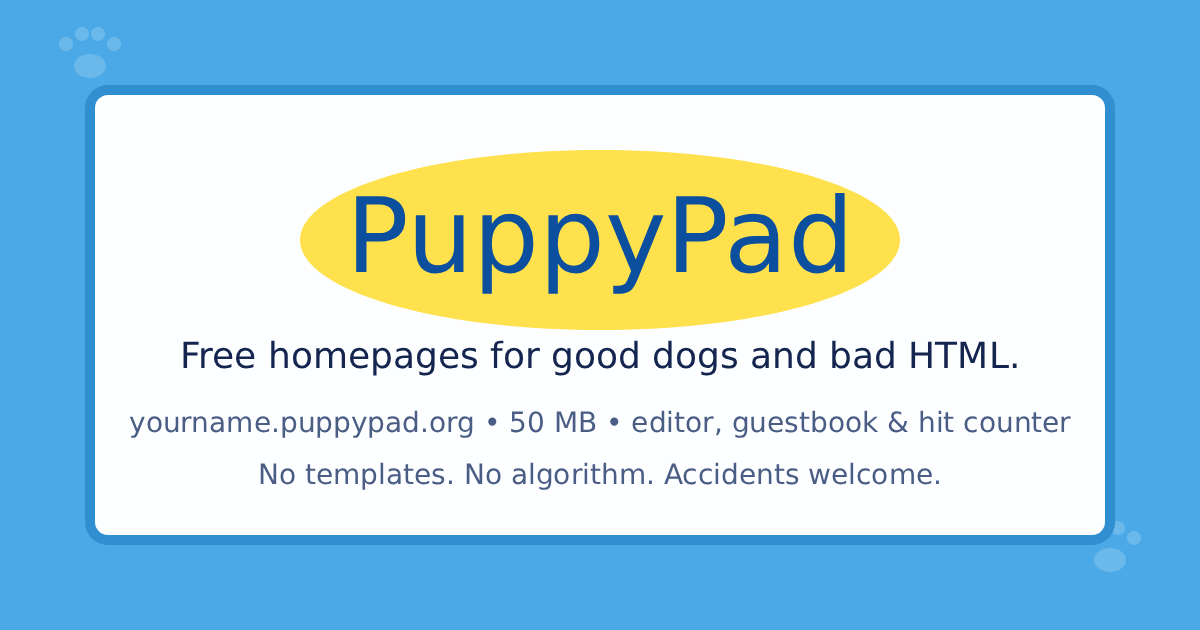
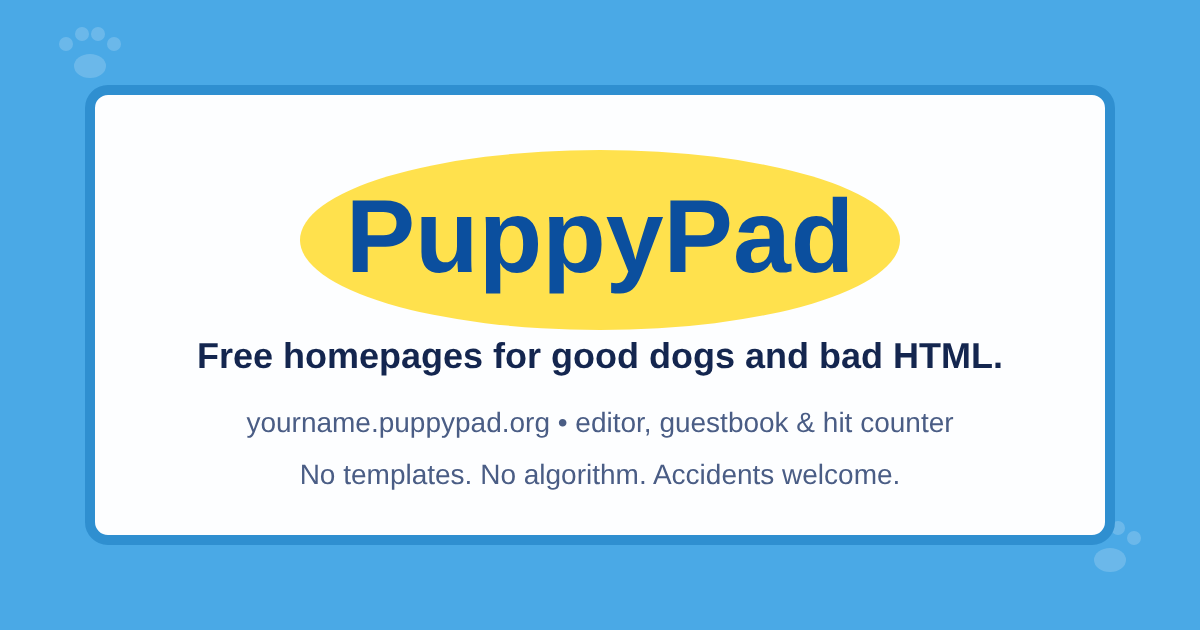
Describe the current software in the README; drop the fixed quota from the share image
The site text already reads QUOTA_MB from .env; the share image was the only place
still saying 50 MB, and a static image can't follow the setting.

Claude-Session: https://claude.ai/code/session_014QCbmBFZTmjdsA6LKbsULA

diff --git a/README.md b/README.md
@@ -1,25 +1,50 @@
 # PuppyPad
 
-A free old-web homepage host. Accidents welcome. Every member gets `name.yourdomain`, a file manager, an in-browser HTML editor, a hit counter, a guestbook and a webring link. Static files only.
+A free old-web homepage host. Accidents welcome. Every member gets `name.yourdomain` for a static
+site, with a file manager, an in-browser editor, a hit counter, a guestbook and a webring link.
 
-## What's in the box
+## Features
 
-- Signup with email confirmation, login, password reset, email change (confirmed by link), account deletion (a deleted site's name is held for 90 days)
-- Four starter layouts to pick from at signup (`templates/`), each restyled from one block of colour and font variables; the dashboard spots a missing `index.html` and can put any starter back as the front page (asking first if one is there)
-- Per-member folder with drag-and-drop uploads (many files at once, with a progress bar), zip import (unpacks a whole site, with the same name, type and quota checks), folders (rename or move any file or folder), text editor, quota (500 MB), file-type allowlist, and a one-click download of the whole site as a zip
-- Member sites served on their own subdomain, with custom `not_found.html` and clean URLs (`/about` serves `about.html`)
-- Widgets: `/_hw/counter.svg`, `/_hw/guestbook` (owner can delete entries), webring prev/next/random (members join the ring from the dashboard)
-- Explore page with a screenshot of every site (new sites join it after their first edit and once they are `NEW_SITE_HOURS` old, 24 by default), sortable by recently updated, newest, most followed, most visited
-- Follows, a personal feed of updates from sites you follow, and a profile page per site (`/site/name`); a member can hide their site from all of these and from search engines
-- Code editor (CodeMirror, loaded from cdnjs) with a sandboxed live preview for HTML files; a new page starts from the member's starter layout
-- Style editor (`/dashboard/style`): colours, font, borders, page width and cursor, with presets and a live preview; it writes `puppypad.css` and keeps any CSS written below its block
-- Moderation: public report form (linked from default 404/410 pages), `/admin` queue, take down / restore / delete, signup IPs, and a log of every moderator action
-- Log in with site name or email; `/healthz` for an uptime monitor
-- Abuse brakes: rate limits on signup, login, reports and guestbooks; honeypot fields; unconfirmed accounts purged after 3 days
+**Accounts.** Signup with email confirmation and an optional Cloudflare Turnstile captcha. Log in
+with site name or email. Password reset, email change (confirmed by link) and account deletion; a
+deleted site's name is held for 90 days.
+
+**Building a site.**
+
+- Four starter layouts (`templates/`), picked at signup and each styled from one block of colour and
+  font variables. If `index.html` goes missing, the dashboard offers to put a starter back.
+- File manager: drag-and-drop uploads with a progress bar, folders, rename and move, zip import, and
+  a one-click download of the whole site as a zip.
+- Code editor (CodeMirror, from cdnjs) with a sandboxed live preview. New pages start from the
+  member's starter layout.
+- Style editor (`/dashboard/style`): colours, font, borders, page width and cursor, with presets and
+  a live preview. It writes `puppypad.css` and leaves any CSS below its block alone.
+- Limits from `.env`: `QUOTA_MB` of space per member (500 by default), `MAX_FILE_MB` per file,
+  `ZIP_MAX_MB` per import, `BANDWIDTH_MB` served per day, and a file-type allowlist. Raising
+  `QUOTA_MB` grows every site; lowering it only applies to new signups.
+
+**Serving.** Each site is served on its own subdomain, with clean URLs (`/about` serves `about.html`)
+and an optional custom `not_found.html`. Built-in widgets: `/_hw/counter.svg`, `/_hw/guestbook`
+(the owner can delete entries) and webring prev/next/random links.
+
+**Community.** The Explore page shows a screenshot of every site, sortable by recently updated,
+newest, most followed and most visited. Members can follow sites and read a feed of their updates,
+and every site has a profile page (`/site/name`). A new site appears in these after its first edit,
+once it is `NEW_SITE_HOURS` old (24 by default). A member can hide their site from all of them and
+from search engines.
+
+**Moderation.** A public report form (linked from the default 404/410 pages), an `/admin` queue,
+take down / restore / delete, signup IPs and a log of every moderator action. HTML that looks like
+phishing is flagged into the queue automatically. Rate limits on signup, login, reports and
+guestbooks, honeypot fields, and unconfirmed accounts are purged after 3 days.
+
+`/healthz` answers for an uptime monitor.
 
 ## Deploy on a VPS
 
-1. In Cloudflare DNS, point `A example.com` and `A *.example.com` at the server, set to **DNS only** (grey cloud). Create an API token with the "Edit zone DNS" template for that zone; Caddy uses it to get one wildcard certificate.
+1. In Cloudflare DNS, point `A example.com` and `A *.example.com` at the server, set to **DNS only**
+   (grey cloud). Create an API token with the "Edit zone DNS" template for that zone; Caddy uses it to
+   get one wildcard certificate.
 2. Install Docker (with the compose plugin), `curl`, `jq` and `cron`, then install the newest release:
 
    ```
@@ -28,19 +53,25 @@ A free old-web homepage host. Accidents welcome. Every member gets `name.yourdom
    ```
 
    That unpacks the release, creates `.env` and `.env.caddy` from the examples, and adds the upgrade
-   watcher (every minute) and the nightly backup (03:15) to your crontab. Fill in `.env` (BASE_DOMAIN, ACME_EMAIL, ADMIN_EMAILS, SMTP_*, SHOT_TOKEN)
-   and `.env.caddy` (CF_API_TOKEN, only the Caddy container reads it), then `docker compose up -d`.
-3. Sign up with an email you put in `ADMIN_EMAILS` and confirm it. Until SMTP is set, the confirmation link is in `docker compose logs app`.
+   watcher (every minute) and the nightly backup (03:15) to your crontab. Fill in `.env` (BASE_DOMAIN,
+   ACME_EMAIL, ADMIN_EMAILS, SMTP_*, SHOT_TOKEN) and `.env.caddy` (CF_API_TOKEN, which only the Caddy
+   container reads), then `docker compose up -d`.
+3. Sign up with an email you put in `ADMIN_EMAILS` and confirm it. Until SMTP is set, the
+   confirmation link is in `docker compose logs app`.
 4. Open `/admin` when logged in as that member.
 
 Everything lives in `./data` (SQLite database plus `sites/`). Back that folder up.
+
+To move a server that runs from a git checkout onto releases, run the same `curl ... | sh` line in
+the checkout with the app running. It treats this as an upgrade (below) and leaves `.env`,
+`.env.caddy`, `data/` and `backups/` as they are. Delete any `docker-compose.override.yml` first.
 
 ## Backups
 
 `scripts/backup.sh` takes a consistent copy of the database while the app runs, archives it with
 every member's files into `./backups`, and keeps the last 14. Set `BACKUP_REMOTE` to an
-[rclone](https://rclone.org) remote to copy the archives off the server too. `scripts/install.sh` schedules it every night at
-03:15 in the installing user's crontab, logging to `backups/backup.log`.
+[rclone](https://rclone.org) remote to copy the archives off the server too. The installer schedules
+it every night at 03:15, logging to `backups/backup.log`.
 
 To restore: `docker compose stop app`, delete `data/puppypad.db-wal` and `data/puppypad.db-shm`
 (left over, they would be replayed onto the restored database and corrupt it), unpack an archive
@@ -52,59 +83,44 @@ into `./data`, rename `backup.db` to `puppypad.db`, and `docker compose start ap
 Servers run published releases, not the source tree. Publishing a GitHub release tagged `vX.Y.Z`
 runs `.github/workflows/release.yml`, which tests the code, pushes the app, shots and Caddy images to
 `ghcr.io/derusto/puppypad-{app,shots,caddy}:vX.Y.Z`, and attaches the deploy bundle, `install.sh`
-and `SHA256SUMS` to the release. The first time, check that those three packages are public under
-your GitHub profile > Packages, or servers can't pull them.
+and `SHA256SUMS` to the release. Those three packages must be public (GitHub profile > Packages) or
+servers can't pull them.
 
-`scripts/install.sh` both installs and upgrades. In an install folder, `scripts/install.sh` moves to
-the newest release and `scripts/install.sh v1.2.3` to a given one (older ones too). An upgrade:
+`scripts/install.sh` both installs and upgrades: with no argument it moves to the newest release,
+and `scripts/install.sh v1.2.3` moves to a given one (older ones too). An upgrade:
 
-1. downloads the release bundle and checks it against `SHA256SUMS`, then hands over to the
-   release's own `install.sh` for the rest, so a fix to the installer counts from the upgrade
-   that ships it
-2. pulls the new images by the digests the bundle records, so pushing a tag again can't change what
-   a release runs (nothing has changed yet if this fails)
+1. downloads the release bundle, checks it against `SHA256SUMS`, and hands over to that release's
+   own `install.sh`
+2. pulls the new images by the digests the bundle records, so re-pushing a tag can't change what a
+   release runs
 3. runs `scripts/backup.sh`
-4. puts the release's files in place, sets `PUPPYPAD_VERSION` and the image digests in `.env` and
+4. puts the release's files in place, sets `PUPPYPAD_VERSION` and the image digests in `.env`, and
    runs `docker compose up -d`
-5. waits for `/healthz` and for every container to stay running; if the new release doesn't come
-   up, it puts the previous files and version back. `VERSION` changes only once this passes, so an
-   upgrade that is cut off partway is simply tried again, and a retry that fails still goes back to
-   the last release that worked.
+5. waits for `/healthz` and for every container to stay running, and puts the previous files and
+   version back if it doesn't come up. `VERSION` changes only once this passes, so an interrupted
+   upgrade is simply tried again.
 
-Every download and pull has a time limit, so a stalled connection fails the upgrade instead of
-holding it up forever.
-
-A rollback leaves the database as the new release left it, which is fine while schema changes only
-add tables and columns. The backup from step 3 is the newest archive in `./backups` if one ever isn't.
+Every download and pull has a time limit. A rollback leaves the database as the new release left it,
+which is fine while schema changes only add tables and columns; the backup from step 3 is the newest
+archive in `./backups` if it isn't.
 
 **From /admin.** The "Server version" box at the bottom of `/admin` shows the running release, the
 newest one with its notes, and a button that runs the upgrade above. The app never upgrades itself:
-it runs in a container with no Docker access and no credentials. It only leaves a request in
-`data/upgrade/`, and `scripts/upgrade-watch.sh` on the host, run every minute from the cron line the
-installer adds, picks it up. The watcher only accepts "check" or the newest release's tag, so a
-compromised app can at most ask for the release you published. It asks GitHub for the newest release
-every `UPGRADE_CHECK_MINUTES` (60 by default); its output goes to `.upgrade/watch.log`, and the full
-output of the last upgrade to `.upgrade/last.log`.
+it runs in a container with no Docker access and no credentials, and only leaves a request in
+`data/upgrade/`. `scripts/upgrade-watch.sh`, run every minute from cron on the host, picks it up and
+only accepts "check" or the newest release's tag, so a compromised app can at most ask for the
+release you published. It checks GitHub every `UPGRADE_CHECK_MINUTES` (60 by default) and logs to
+`.upgrade/watch.log`, with the full output of the last upgrade in `.upgrade/last.log`.
 
 The app (uid 1000 in its container) and the watcher both write to `data/upgrade/`, which is
 group-writable. If the user running the watcher isn't uid 1000 or root, the installer prints the one
 `sudo chown` it needs.
 
-**Moving a server from a git checkout to releases.** In the checkout, with the app running, run
-`curl -fsSL https://github.com/DeRusto/puppypad/releases/latest/download/install.sh | sh`. It sees
-`.env` and `data/puppypad.db`, so it treats the move like an upgrade: it pulls the images, backs up,
-switches, and puts the checkout's files back if the release doesn't come up healthy. `.env`,
-`.env.caddy`, `data/` and `backups/` stay as they are. (If the checkout already has
-`docker-compose.override.yml`, delete it first.)
-
-**Working on the code.** In the source tree, `docker-compose.override.yml` makes
-`docker compose up -d --build` build the images locally instead of pulling them.
-
 ## Email that arrives
 
-Confirmation mail lands in spam unless the domain vouches for your mail provider. `docs/launch-checklist.md`
-has the exact records for puppypad.org. In general, in Cloudflare DNS for the domain, add the
-records your provider gives you:
+Confirmation mail lands in spam unless the domain vouches for your mail provider.
+`docs/launch-checklist.md` has the exact records for puppypad.org. In general, in Cloudflare DNS for
+the domain, add the records your provider gives you:
 
 - **SPF**: one TXT record on the domain itself, e.g. `v=spf1 include:<provider's domain> ~all`.
   Merge providers into one record if you already have one.
@@ -114,12 +130,7 @@ records your provider gives you:
 
 Then sign up with a Gmail address and check that the confirmation arrives in the inbox.
 
-## Tests
-
-`npm test` runs the suite in `test/`. GitHub Actions runs it on every push, along with
-`npm audit` and a check that the Caddyfile is valid.
-
-## Run locally
+## Development
 
 ```
 npm install
@@ -128,7 +139,14 @@ BASE_URL=http://localhost.test:3000 ADMIN_EMAILS=me@example.com node src/server.
 
 Add `127.0.0.1 localhost.test me.localhost.test` to your hosts file to see a member site.
 
-Screenshots locally: `cd shots && npm install`, then run `APP_URL=http://localhost:3000 SHOT_TOKEN=x node worker.js` with the app started with the same `SHOT_TOKEN` (needs a Playwright Chromium install).
+Screenshots: `cd shots && npm install`, then run `APP_URL=http://localhost:3000 SHOT_TOKEN=x node worker.js`
+with the app started with the same `SHOT_TOKEN` (needs a Playwright Chromium install).
+
+In the source tree, `docker-compose.override.yml` makes `docker compose up -d --build` build the
+images locally instead of pulling them.
+
+`npm test` runs the suite in `test/`. GitHub Actions runs it on every push, along with `npm audit`
+and a check that the Caddyfile is valid.
 
 ## Before you open signups
 
